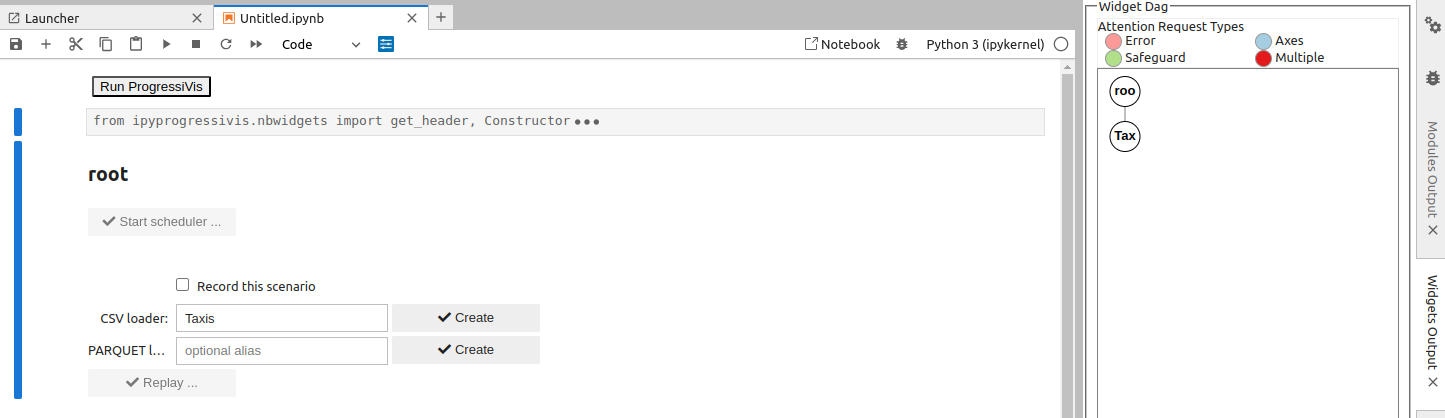
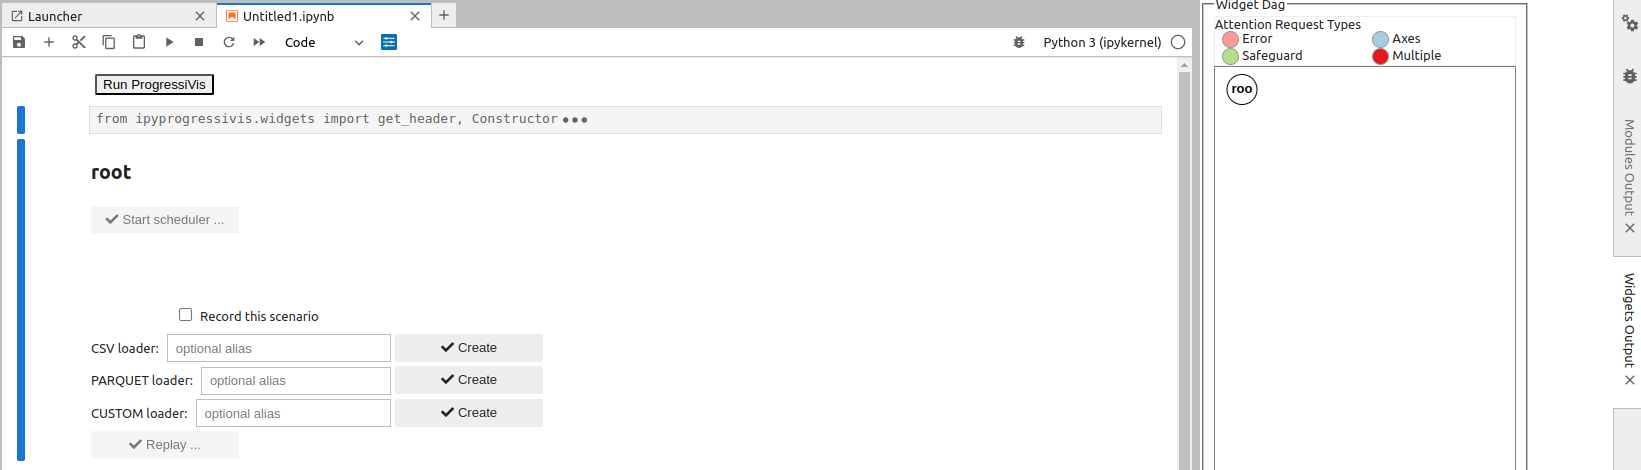
doc custom python in CW

diff --git a/doc/visualizations.md b/doc/visualizations.md
@@ -2,9 +2,13 @@
 
 There is a set of visualizations intended for Progressivis and usable with [JupyterLab](https://jupyterlab.readthedocs.io/en/latest/) grouped in a separate package called `ipyprogressivis`.
 
+(create-scenario)=
+
 ## Create a scenario
 
-Notebooks hosting a progressive scenario need to be initialized in a particular way. One call them **ProgressiBooks** and they must be created via the `Progressivis/New ProgressiBook` menu.
+Notebooks hosting a progressive scenario need to be initialized in a particular way. One call them **ProgressiBooks** and they must be created via the `Progressivis/New ProgressiBook` menu:
+
+![](viz_images/create_progressibook.png)
 
 Once created, a `Run ProgressiVis` button will appear in the first `ProgressiBook` cell.
 
@@ -37,6 +41,8 @@ Each `CW` is designed for a specific stage of an analysis scenario (data loading
     ...
     ...
 ```
+
+**NB:** Only the `.progressivis` directory needs to be created by the user. All other directories and files will be created by widgets as required.
 
 ## Chaining widgets list
 
@@ -81,7 +87,83 @@ Once loading has begun, the `Next stage` list and the `Chain it` button will be 
 
 #### PARQUET Loader
 
-... comming soon
+Possible topology:
+
+![](viz_images/csv_loader_topology.png)
+
+##### Function:
+
+It loads one PARQUET file progressively
+
+After starting, the main interface is:
+
+![](viz_images/parquet_before_sniffing.png)
+
+You have to activate the sniffer and select the desired columns before loading:
+
+![](viz_images/parquet_after_sniffing.png)
+
+(custom-loader)=
+
+#### CUSTOM Loader
+
+Possible topology:
+
+![](viz_images/rand_loader_topology.png)
+
+##### Function:
+
+Allows users to code their own loader in _Python_, respecting a few conventions to ensure connectivity.
+
+After starting, a pre-filled magic cell is displayed:
+
+```python
+%%pv_run_cell
+proxy = Constructor.proxy('Rand', 0)
+scheduler = proxy.scheduler
+# Warning: keep the code above unchanged
+# Put your own imports here
+...
+...
+with scheduler:
+    # Put your own code here
+    ...
+    ...
+    # fill in the following proxy attributes:
+    proxy.output_module = ...  # Module | TableFacade
+    proxy.output_slot = 'result'  # str
+    proxy.freeze = True  # bool
+    # Warning: keep the code below unchanged
+    proxy.cell_content = __pv_cell__
+    display(proxy.resume())
+```
+
+To illustrate, a simple example is given below. It simulates data loading via a random float data generator in the form of a 4-column `PTable`:
+
+```python
+%%pv_run_cell
+proxy = Constructor.proxy('Rand', 0)
+scheduler = proxy.scheduler
+# Warning: keep the code above unchanged
+# Put your own imports here
+from progressivis.stats import RandomPTable
+from progressivis.core import Sink
+with scheduler:
+    # Put your own code here
+    random = RandomPTable(4, rows=100_000_000, scheduler=scheduler)
+    sink = Sink(scheduler=scheduler)
+    sink.input.inp = random.output.result
+    # fill in the following proxy attributes:
+    proxy.output_module = random
+    proxy.output_slot = 'result'
+    proxy.freeze = True
+    # Warning: keep the code below unchanged
+    proxy.cell_content = __pv_cell__
+    display(proxy.resume())
+```
+
+The generated code preceding the user code provides access to the `scheduler`, which is essential for loader operation. It is not recommended to modify this code.
+The user code must fill the proxy attributes required for connection: `proxy.output_module` and `proxy.output_slot`. The `proxy.freeze` attribute plays the same role as the checkbox of the same name found in some widgets. It determines behavior in replay mode, see [here](recording-scenario).
 
 ### Table operators category
 
@@ -238,6 +320,102 @@ Obviously, the widest range of operations is proposed for numerical types:
 
 ![](viz_images/facade_num_cols.png)
 
+### Free coding category
+
+#### Python
+
+Possible topology:
+
+![](viz_images/python_topology.png)
+
+
+##### Function:
+
+It's a pseudo-widget that lets you insert custom code into a `CW` topology via various forms of _magic cells_. Custom code can be chained after any widget by selecting "Python" in the widget's `Next stage` list and pushing `Chain it` button.
+
+After starting, a pre-filled magic cell is displayed:
+
+```python
+%%pv_run_cell
+proxy = Constructor.proxy('Python', 0)
+# proxy object provides the following attributes:
+#  input_module: Module | TableFacade
+#  input_slot: str
+#  input_dtypes: dict[str, str] | None
+#  scheduler: Scheduler
+# Warning: keep the code above unchanged
+# Put your own imports here
+...
+...
+with scheduler:
+    # Put your own code here
+    ...
+    ...
+    # fill in the following proxy attributes:
+    proxy.output_module = ...  # Module | TableFacade
+    proxy.output_slot = 'result'  # str
+    proxy.freeze = True  # bool
+    # Warning: keep the code below unchanged
+    proxy.cell_content = __pv_cell__
+    display(proxy.resume())
+```
+
+To illustrate, a simple example is given below. It implements a 'range querying' 2D stage:
+
+```python
+%%pv_run_cell
+proxy = Constructor.proxy('Python', 0)
+# proxy object provides the following attributes:
+#  input_module: Module | TableFacade
+#  input_slot: str
+#  input_dtypes: dict[str, str] | None
+#  scheduler: Scheduler
+# Warning: keep the code above unchanged
+# Put your own imports here
+from progressivis.table.range_query_2d import RangeQuery2d
+from progressivis.table.constant import ConstDict
+from progressivis.utils.psdict import PDict
+from progressivis.core import aio, Sink
+scheduler = proxy.scheduler
+with scheduler:
+    # Put your own code here
+    low = PDict({"_1_arcsin": 0.2, "_2_arccos": 0.2})
+    low = ConstDict(pdict=low, scheduler=scheduler)
+    high = PDict({"_1_arcsin": 1.2, "_2_arccos": 1.2})
+    high = ConstDict(pdict=high, scheduler=scheduler)
+    range_qry = RangeQuery2d(column_x="_1_arcsin", column_y="_2_arccos", scheduler=scheduler)
+    range_qry.create_dependent_modules(
+        proxy.input_module, proxy.input_slot, min_value=low, max_value=high
+    )
+    sink = Sink(scheduler=scheduler)
+    sink.input.inp = range_qry.output.result
+    # fill in the following attributes:
+    proxy.output_module = range_qry
+    proxy.output_slot = 'result'
+    proxy.freeze = True
+    # Warning: keep the code below unchanged
+    proxy.cell_content = __pv_cell__
+    display(proxy.resume())
+```
+
+The pre-filled code preceding the user code provides access to a proxy object giving access via three attributes (`input_module`, `input_slot` and `scheduler`) to connection data with the input widget. It is not recommended to modify this code.
+
+The user code must fill the proxy attributes required by the next stage for connection: `proxy.output_module` and `proxy.output_slot`. The `proxy.freeze` attribute plays the same role as the checkbox of the same name found in some widgets. It determines behavior in replay mode, see [here](recording-scenario).
+
+<!--
+**NB:** In addition to the `%%pv_run_cell` command for entering code online, users can save their scripts (let's say `foo.py`) in the usual `CW` settings location (`$HOME/.progressivis/widget_settings/Python/foo.py) and execute them with the following command:
+
+```python
+%pv_run_file foo.py
+```
+-->
+
+#### CUSTOM Loader
+
+This is a particular case of the previous pseudo-widget, useful when code is not chained from another `CW`. This is the case for custom data loaders explained [here](custom-loader)
+
+
+
 ### Display tools category
 
 #### Dump table
@@ -331,9 +509,30 @@ This widget allows you to view several time series together:
 
 ![](viz_images/multiseries_view.png)
 
+#### Any Vega
 
-#### Scatterplot
-* ...
+Possible topology:
+
+![](viz_images/any_vega_topology.png)
+
+
+##### Function:
+
+
+Allows a user to integrate vega-based visualizations from customized schemas into a scenario. Schemas can be edited, saved and reused in a similar way to `CSV loader` settings.
+
+NB: The entry for an _Any Vega_ widget is always a `Facade`.
+
+![](viz_images/any_vega_heatmap.png)
+
+The "fetch info" button extracts the list of fields present in the schema before pairing them with members of the input facade and associating them (potentially) with element-wise processing operations.
+
+![](viz_images/any_vega_fetch_info.png)
+
+The rendering is similar to previous ones:
+
+![](viz_images/any_vega_rendering.png)
+
 
 (recording-scenario)=
 ## Recording a scenario
@@ -344,7 +543,7 @@ The scenario is saved only if the corresponding box in the start widget is check
 
 ![](viz_images/recording_start.png)
 
-After that, the scenario is built as explained above, with an extra detail: the `Freeze` checkbox, present in certain widgets:
+After that, the scenario is built as explained [above](create-scenario), with an extra detail: the `Freeze` checkbox, present in certain widgets:
 
 ![](viz_images/recording_csv_freeze.png)
 
@@ -352,3 +551,8 @@ When the freeze checkbox has been checked in a widget (here CSV Loader) during r
 Thus, when the record is replayed, these settings will be applied directly, without redisplaying the "frozen" widget.
 
 **NB:** Scenario registration should not be confused with the [persistent settings](#persistent-settings) of certain widgets, which are saved in dedicated files and can also be used in unregistered scenarios.
+
+
+## How to create a chaining widget ?
+
+Comming soon ...
